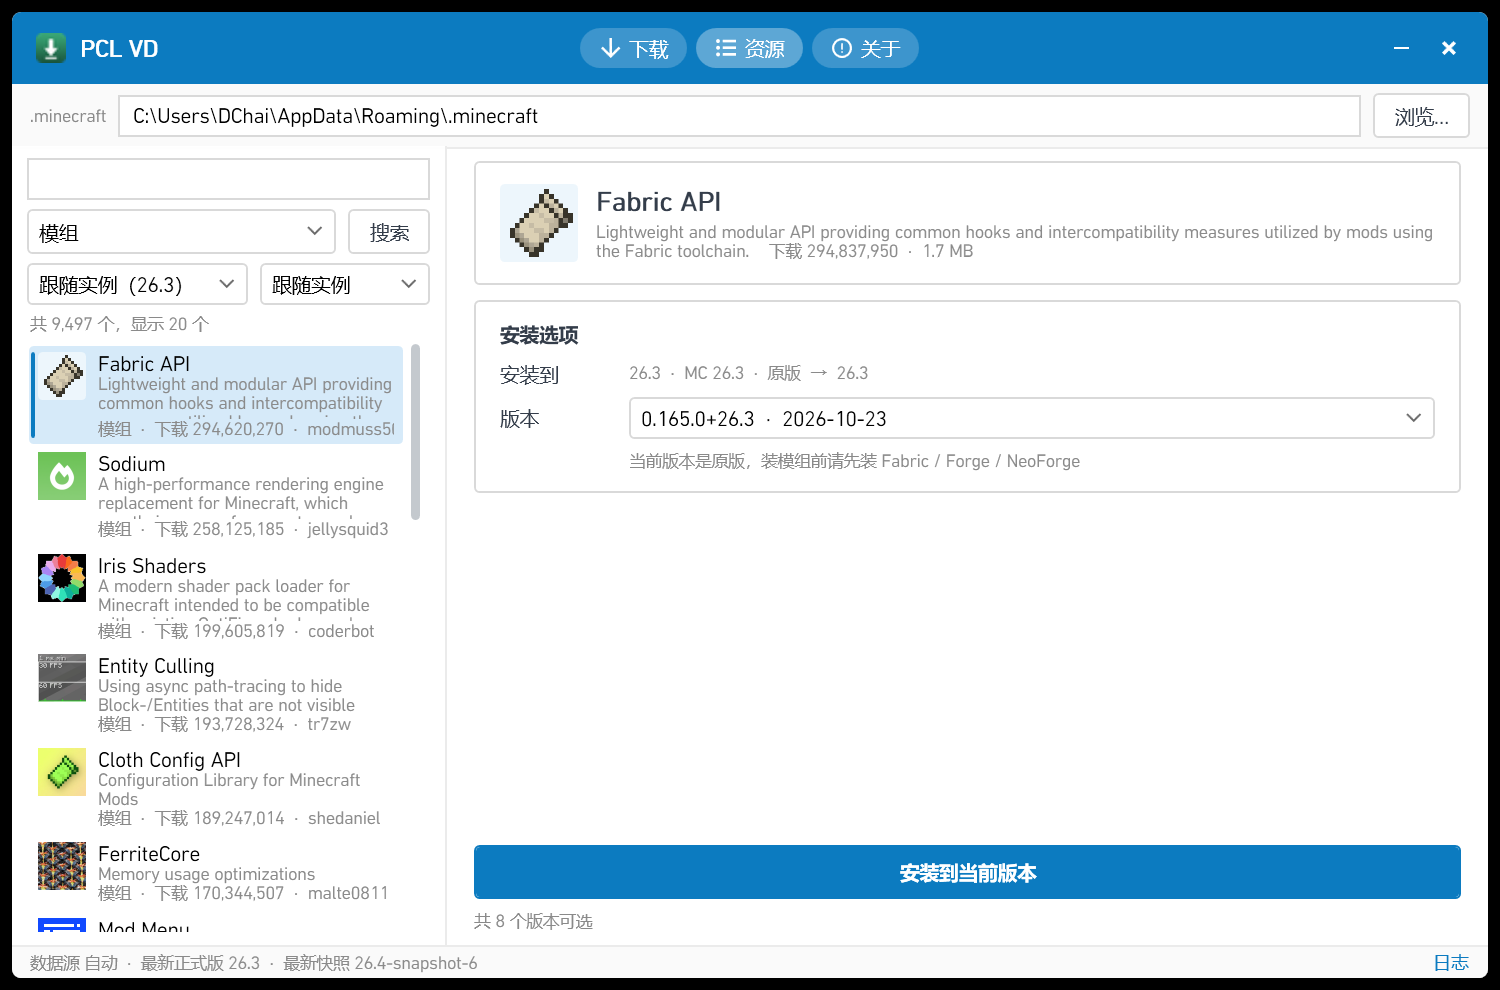
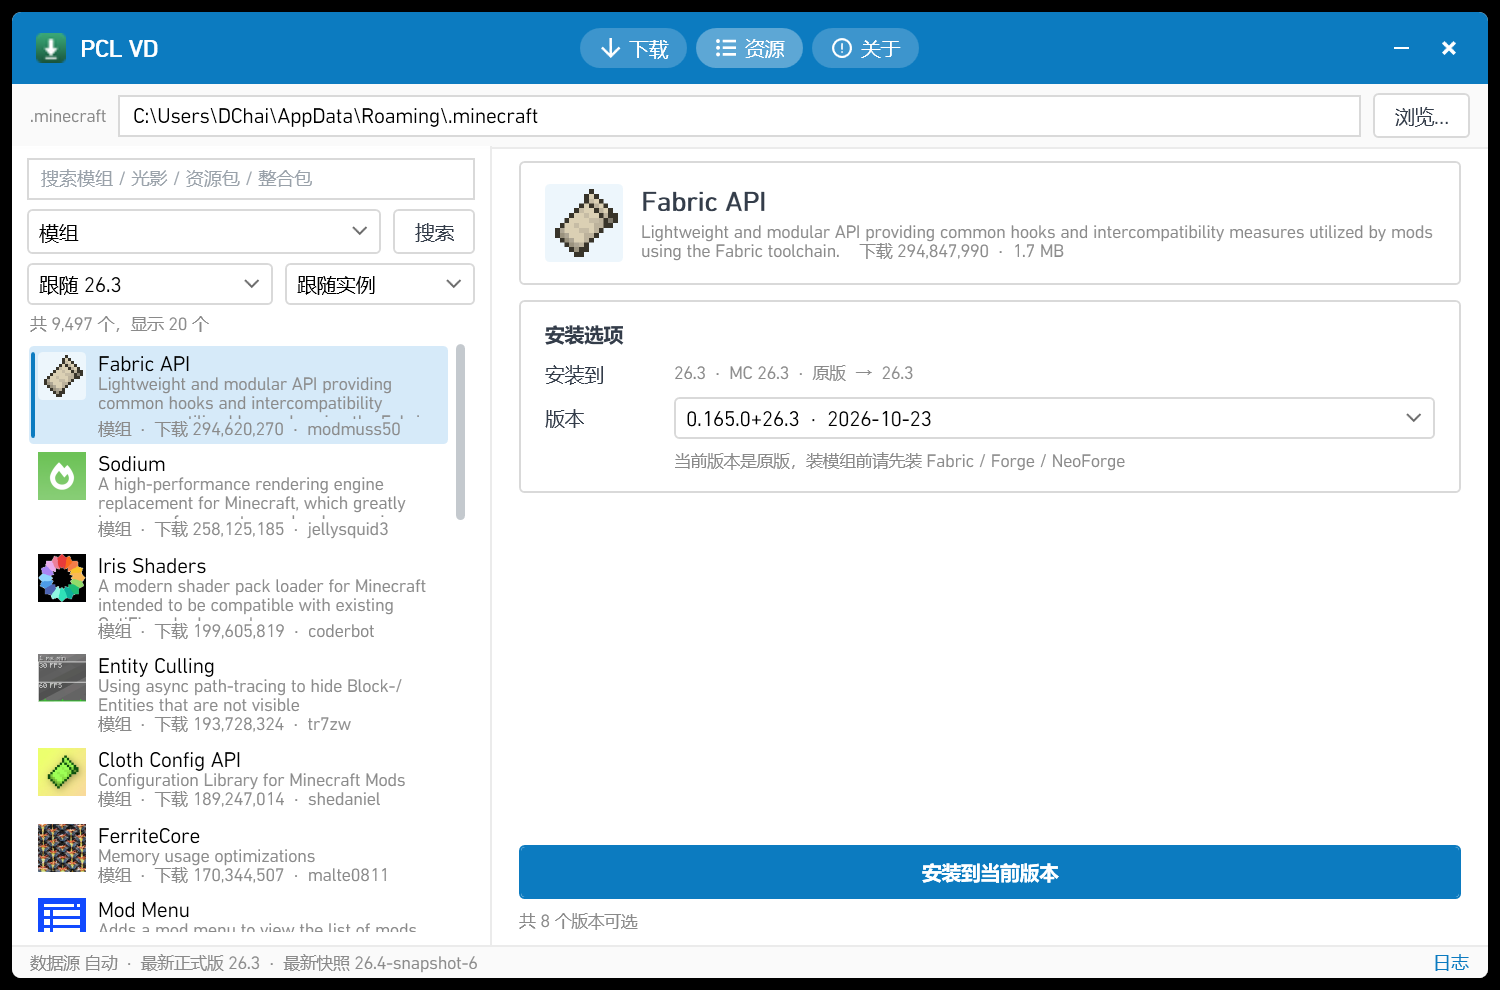
UI: 资源栏加宽 + 搜索框占位提示 + 筛选标签缩短

diff --git a/src/Mcdl.Wpf/MainWindow.xaml b/src/Mcdl.Wpf/MainWindow.xaml
@@ -112,7 +112,12 @@
                 <RowDefinition Height="Auto" />
                 <RowDefinition Height="*" />
               </Grid.RowDefinitions>
-              <TextBox Grid.Row="0" Text="{Binding SearchText, Mode=TwoWay}" />
+              <Grid Grid.Row="0">
+                <TextBox x:Name="VersionSearchBox" Text="{Binding SearchText, Mode=TwoWay}" />
+                <TextBlock Text="搜索版本，如 26.3 / 1.20" Foreground="#9AA2AA" Margin="9,0,0,0"
+                           VerticalAlignment="Center" IsHitTestVisible="False"
+                           Visibility="{Binding Text, ElementName=VersionSearchBox, Converter={StaticResource EmptyToVis}}" />
+              </Grid>
               <Grid Grid.Row="1" Margin="2,8,2,4">
                 <Grid.ColumnDefinitions>
                   <ColumnDefinition Width="*" />
@@ -246,7 +251,7 @@
         <!-- 资源页 -->
         <Grid x:Name="PageResource" Visibility="{Binding IsResourceTab, Converter={StaticResource BoolToVis}}">
           <Grid.ColumnDefinitions>
-            <ColumnDefinition Width="290" />
+            <ColumnDefinition Width="320" />
             <ColumnDefinition Width="*" />
           </Grid.ColumnDefinitions>
 
@@ -259,8 +264,13 @@
                 <RowDefinition Height="Auto" />
                 <RowDefinition Height="*" />
               </Grid.RowDefinitions>
-              <TextBox Grid.Row="0" x:Name="ResourceSearchBox" Text="{Binding ResourceQuery, Mode=TwoWay}"
-                       KeyDown="OnResourceSearchKeyDown" />
+              <Grid Grid.Row="0">
+                <TextBox x:Name="ResourceSearchBox" Text="{Binding ResourceQuery, Mode=TwoWay}"
+                         KeyDown="OnResourceSearchKeyDown" />
+                <TextBlock Text="搜索模组 / 光影 / 资源包 / 整合包" Foreground="#9AA2AA" Margin="9,0,0,0"
+                           VerticalAlignment="Center" IsHitTestVisible="False"
+                           Visibility="{Binding Text, ElementName=ResourceSearchBox, Converter={StaticResource EmptyToVis}}" />
+              </Grid>
               <Grid Grid.Row="1" Margin="0,6">
                 <Grid.ColumnDefinitions>
                   <ColumnDefinition Width="*" />

diff --git a/src/Mcdl.Wpf/App.xaml b/src/Mcdl.Wpf/App.xaml
@@ -5,6 +5,7 @@
   <Application.Resources>
 
     <BooleanToVisibilityConverter x:Key="BoolToVis" />
+    <local:EmptyStringToVisibilityConverter x:Key="EmptyToVis" />
 
     <!-- PCL 调色板：一个主色 + 8 级浓度 -->
     <Color x:Key="AccentColor">#0C7BC0</Color>

diff --git a/src/Mcdl.Wpf/Converters.cs b/src/Mcdl.Wpf/Converters.cs
@@ -1,0 +1,15 @@
+using System.Globalization;
+using System.Windows;
+using System.Windows.Data;
+
+namespace Mcdl.App;
+
+/// <summary>文本框为空时显示占位提示（WPF 的 TextBox 没有 Watermark）。</summary>
+public sealed class EmptyStringToVisibilityConverter : IValueConverter
+{
+    public object Convert(object? value, Type targetType, object? parameter, CultureInfo culture)
+        => string.IsNullOrEmpty(value as string) ? Visibility.Visible : Visibility.Collapsed;
+
+    public object ConvertBack(object? value, Type targetType, object? parameter, CultureInfo culture)
+        => throw new NotSupportedException();
+}

diff --git a/src/Mcdl.Wpf/ViewModels/MainViewModel.cs b/src/Mcdl.Wpf/ViewModels/MainViewModel.cs
@@ -582,7 +582,7 @@ public sealed class MainViewModel : ObservableObject
     {
         var followLabel = instance is null
             ? "跟随实例"
-            : $"跟随实例（{instance.MinecraftVersion}）";
+            : $"跟随 {instance.MinecraftVersion}";
 
         _updatingFilters = true;
         var keep = _selectedResourceVersionOption;
